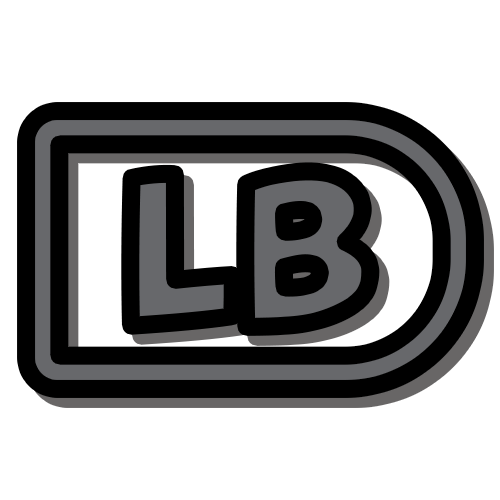
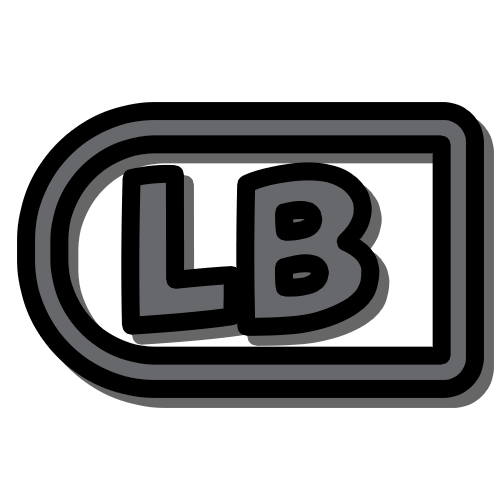
[MOD] Images RB/LB

diff --git a/PlatiniumProject/Assets/Scripts/UI/UIQteDJ.cs b/PlatiniumProject/Assets/Scripts/UI/UIQteDJ.cs
@@ -66,7 +66,7 @@ public class UIQteDJ : UIQte
     }
     public void StartAnimation()
     {
-        ResetInputs();
+        /*ResetInputs();
         for (int i = 0; i < _imagesInput.Length; i++)
         {
             if (i == 0)
@@ -85,6 +85,16 @@ public class UIQteDJ : UIQte
                 }
                 _imagesInput[i].transform.DOLocalMove(_initialSpriteInfos[i - 1].PositionSprite, _durationAnimation);
                 _imagesInput[i].transform.DOScale(_initialSpriteInfos[i - 1].ScaleSprite, _durationAnimation);
+            }
+        }*/
+        for (int i = 0; i < _imagesInput.Length; i++)
+        {
+            if (i < _imagesInput.Length - 1)
+            {
+                _imagesInput[i].sprite = _imagesInput[i + 1].sprite;
+            } else
+            {
+                _imagesInput[i].sprite = NextSprite;
             }
         }
     }
